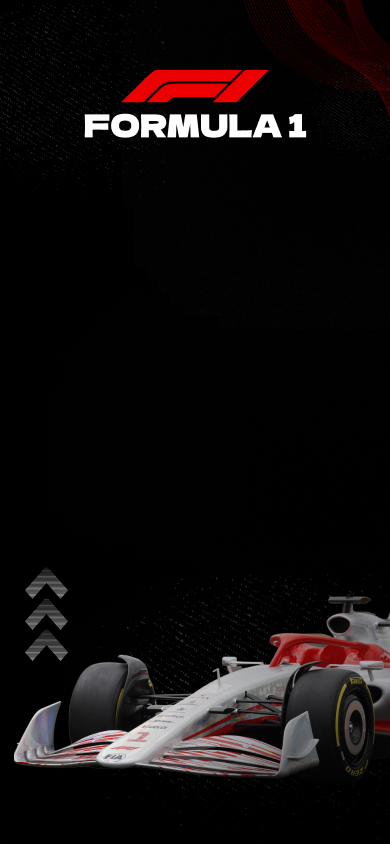
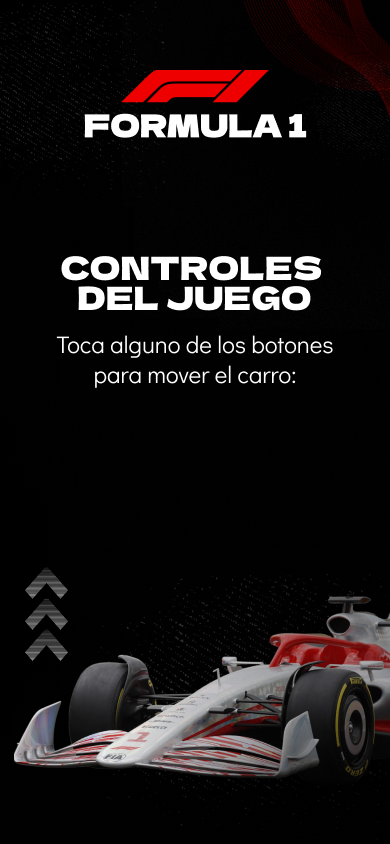
Avances y solución de problemas
Logre arreglar los console.log que no salían en la pantalla del control cuando se hundían los botones, sin embargo todavía ambas pantallas no se conectan correctamente

Changed region(s): [[0.1538, 0.2773, 0.8308, 0.3697], [0.1538, 0.4005, 0.8615, 0.4621]]

diff --git a/publicControl/control.js b/publicControl/control.js
@@ -1,84 +1,55 @@
 const socket = io.connect('http://localhost:5500');
 let currentLane = 1; // Carril actual del carro (inicia en el carril central)
-let gameStarted = false;
-let leftButton, startButton, rightButton; // Declarar los botones como variables
+let backgroundImage; // Variable para almacenar la imagen de fondo
+
+function preload() {
+  // Carga la imagen de fondo
+  backgroundImage = loadImage('img/fondo.png');
+}
 
 function setup() {
-  createCanvas(390, 844);
-  
-  // Definir las posiciones y dimensiones de los botones
-  const buttonY = height - 100;
-  const buttonWidth = 100;
-  const buttonHeight = 50;
+  const canvasDiv = select('#canvas-container');
+  const myCanvas = createCanvas(390, 844);
+  myCanvas.parent(canvasDiv);
 
-  // Crear el botón para mover el carro a la izquierda
-  leftButton = createButton("Izquierda");
-  leftButton.position(width / 6, buttonY);
+  const buttonWidth = 60; // Ancho de los botones
+  const buttonHeight = 30; // Alto de los botones
+  const centerX = width / 2; // Posición horizontal del centro del canvas
+  const centerY = height / 2; // Posición vertical del centro del canvas
+  const spacing = 20; // Espacio entre los botones
+
+  // Crear botón para mover el carro a la izquierda
+  const leftButton = createButton("Izquierda");
+  leftButton.parent(canvasDiv);
+  leftButton.position(centerX - buttonWidth - spacing, centerY - buttonHeight / 2);
   leftButton.mousePressed(moveCarLeft);
-
-  // Crear el botón para iniciar el juego
-  startButton = createButton("Iniciar Juego");
-  startButton.position(width / 2, buttonY);
-  startButton.mousePressed(startGame);
-
-  // Crear el botón para mover el carro a la derecha
-  rightButton = createButton("Derecha");
-  rightButton.position((5 * width) / 6, buttonY);
+  
+  // Crear botón para mover el carro a la derecha
+  const rightButton = createButton("Derecha");
+  rightButton.parent(canvasDiv);
+  rightButton.position(centerX + spacing, centerY - buttonHeight / 2);
   rightButton.mousePressed(moveCarRight);
-
-  leftButton.id('leftButton');
-  startButton.id('startButton');
-  rightButton.id('rightButton');
 }
 
-function touchStarted() {
-  if (gameStarted) {
-    // Verificar si se tocó alguno de los botones de movimiento
-    checkButtonPress();
-  } else {
-    // Verificar si se tocó el botón de inicio del juego
-    checkStartButtonPress();
-  }
-  console.log('touchStarted ejecutado, gameStarted:', gameStarted);
-  return false;
-}
-
-function checkButtonPress() {
-  if (mouseX >= leftButton.x && mouseX <= leftButton.x + leftButton.width && mouseY >= leftButton.y && mouseY <= leftButton.y + leftButton.height) {
-    leftButton.mousePressed();
-    console.log('Botón Izquierda presionado');
-  } else if (mouseX >= rightButton.x && mouseX <= rightButton.x + rightButton.width && mouseY >= rightButton.y && mouseY <= rightButton.y + rightButton.height) {
-    rightButton.mousePressed();
-    console.log('Botón Derecha presionado');
-  }
-}
-
-function checkStartButtonPress() {
-  if (mouseX >= startButton.x && mouseX <= startButton.x + startButton.width && mouseY >= startButton.y && mouseY <= startButton.y + startButton.height) {
-    startButton.mousePressed();
-    socket.emit('startGame'); // Enviar un evento de inicio de juego al servidor
-  }
+function draw() {
+  // Dibuja la imagen de fondo en el canvas
+  image(backgroundImage, 0, 0, width, height);
+  // Resto del código
+  console.log('si buenassss');
 }
 
 function moveCarLeft() {
   if (currentLane > 0) {
     currentLane--;
+    console.log('Botón Izquierda presionado');
     socket.emit('move', 'left'); // Enviar un evento de movimiento izquierdo al servidor
   }
-  console.log('Botón Izquierda presionado');
 }
 
 function moveCarRight() {
   if (currentLane < 2) {
     currentLane++;
+    console.log('Botón Derecha presionado');
     socket.emit('move', 'right'); // Enviar un evento de movimiento derecho al servidor
   }
-console.log('Botón Derecho presionado');
-}
-
-function startGame() {
-  gameStarted = true;
-  const gameContainer = document.getElementById('game-container');
-  gameContainer.style.display = 'block';
-  socket.emit('startGame'); // Enviar un evento de inicio de juego al servidor
 }

diff --git a/publicControl/style.css b/publicControl/style.css
@@ -1,49 +1,44 @@
 body {
-    background-image: url('img/fondo.png');
-    background-size: contain; 
-    background-repeat: no-repeat; 
-    background-position: left; 
-    width: 390px; 
-    height: 844px; 
-    margin: 0; 
-    overflow: hidden; 
     font-family: Arial, sans-serif;
-    background-color: #333;
-    color: white;
+    background-color: #f0f0f0;
     text-align: center;
-    display: flex;
-    flex-direction: column;
-    justify-content: center;
-    align-items: center;
+    padding: 20px;
+    margin: 0;
+}
+
+h1 {
+    color: #333;
+}
+
+#canvas-container {
+    position: relative;
+    background: url('img/fondo.png') no-repeat center center fixed;
+    background-size: cover;
+    width: 390px;
+    height: 844px;
 }
 
 canvas {
     display: block;
-}
-
-h1 {
-    font-size: 30px;
-    text-transform: uppercase;
-}
-
-.button-container {
-    display: flex;
-    justify-content: center;
-    align-items: center;
+    margin: 0 auto;
+    background: url('img/fondo.png') no-repeat center center fixed;
 }
 
 button {
-    background-color: rgba(255, 0, 0, 0.8); /* Rojo con transparencia al 80% */
-    color: white;
-    font-size: 20px;
-    border: none;
-    padding: 10px 30px; /* Mayor espacio entre los botones */
-    cursor: pointer;
-    transition: background-color 0.3s;
-    margin: 10px; /* Espacio entre los botones */
+  background-color: #a10000;
+  color: white;
+  border: none;
+  width: 90px;
+  height: 50px;
+  text-align: center;
+  text-decoration: none;
+  font-size: 16px;
+  cursor: pointer;
+  border-radius: 5px;
+  margin: 0 10px; /* Espacio entre los botones */
+  display: inline-block; /* Para que estén uno al lado del otro */
 }
 
 button:hover {
-    background-color: rgba(116, 15, 15, 0.675); /* Rojo al 100% al pasar el ratón */
+  background-color: #b83030;
 }
-

diff --git a/server.js b/server.js
@@ -15,25 +15,19 @@ app.use(cors());
 app.use(express.static('publicControl'));
 app.use(express.static('publicGame'));
 
-
 // Maneja la conexión de un cliente
 io.on('connection', (socket) => {
   console.log('Cliente conectado');
 
-  //El cliente envía instrucciones para mover el carro
+  // El cliente envía instrucciones para mover el carro
   socket.on('move', (direction) => {
     if (gameInProgress) {
-      if (direction === 'left' && carPosition > 0) {
-        carPosition--; // Mover el carro a la izquierda
-      } else if (direction === 'right' && carPosition < 2) {
-        carPosition++; // Mover el carro a la derecha
-      }
-      // Envía la dirección del movimiento a todos los clientes
-      io.emit('carMoved', direction);
+      // Aquí puedes añadir lógica adicional si es necesario
+      io.emit('carMoved', direction); // Envía la dirección del movimiento a todos los clientes
     }
   });
 
-  //El cliente inicia el juego
+  // El cliente inicia el juego
   socket.on('startGame', () => {
     if (!gameInProgress) {
       startGame();
@@ -52,13 +46,7 @@ server.listen(port, () => {
 
 function startGame() {
   gameInProgress = true;
-  const gameContainer = document.getElementById('game-container');
-  gameContainer.style.display = 'block';
 
   // Envía una señal de inicio de juego a todos los clientes
   io.emit('gameStarted');
-
-  // Inicia el conteo regresivo
-  countdown = 3; // Reinicia el conteo regresivo
-  startCountdown();
 }

diff --git a/publicGame/sketch.js b/publicGame/sketch.js
@@ -21,6 +21,7 @@ function preload() {
   obstacleImages.push(loadImage('./img/obstaculo3.png'));
   obstacleImages.push(loadImage('./img/obstaculo4.png'));
 }
+
 // Evento: El juego ha comenzado
 socket.on('gameStarted', () => {
   startGame();
@@ -39,10 +40,11 @@ function setup() {
   createCanvas(477, 658);
   car = new Car();
   startCountdown();
+  console.log('El juego está listo.');
 }
 
 function draw() {
-background(FondoImage); 
+  background(FondoImage);
   if (countdown > 0) {
     displayCountdown();
     return;
@@ -58,6 +60,7 @@ background(FondoImage);
         let lane = Math.floor(random(0, 4));
         let obstacle = new Obstacle(lane);
         obstacles.push(obstacle);
+        console.log('Nuevo obstáculo creado en el carril', lane);
       }
     }
 
@@ -68,6 +71,7 @@ background(FondoImage);
       if (!gameEnded && car.hits(obstacles[i])) {
         gameEnded = true;
         gameOver();
+        console.log('¡Colisión con un obstáculo!');
       }
     }
 
@@ -89,6 +93,7 @@ background(FondoImage);
 
       if (obstacles[i].y > height) {
         obstacles.splice(i, 1);
+        console.log('Obstáculo eliminado');
       }
     }
   }
@@ -108,7 +113,6 @@ function startCountdown() {
     }
   }, 1000);
 }
-
 function drawRoad(centerX) {
   fill(100); // Color de la carretera
   rect(0, height - roadWidth, width, roadWidth);

diff --git a/publicControl/control.html b/publicControl/control.html
@@ -4,14 +4,12 @@
     <meta charset="UTF-8">
     <title>Control del Juego</title>
     <script src="/socket.io/socket.io.js"></script>
+    <script src="https://cdnjs.cloudflare.com/ajax/libs/p5.js/1.4.0/p5.js"></script>
+    <link rel="stylesheet" type="text/css" href="style.css">
 </head>
 <body>
-    <h1>Control del Juego</h1>
-    <p>Toque en la pantalla para mover el carro:</p>
-    <button id="left-button">Izquierda</button>
-    <button id="right-button">Derecha</button>
-    
+    <div id="canvas-container">
+    </div>
     <script src="control.js"></script>
-    <link rel="stylesheet" type="text/css" href="style.css">
 </body>
 </html>
